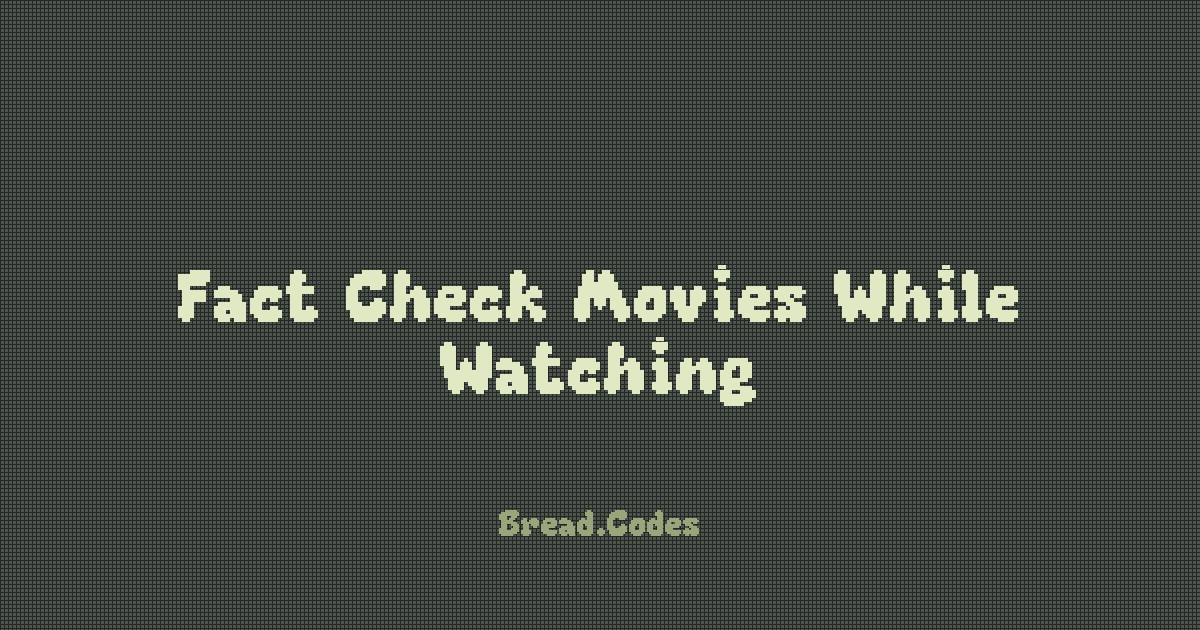
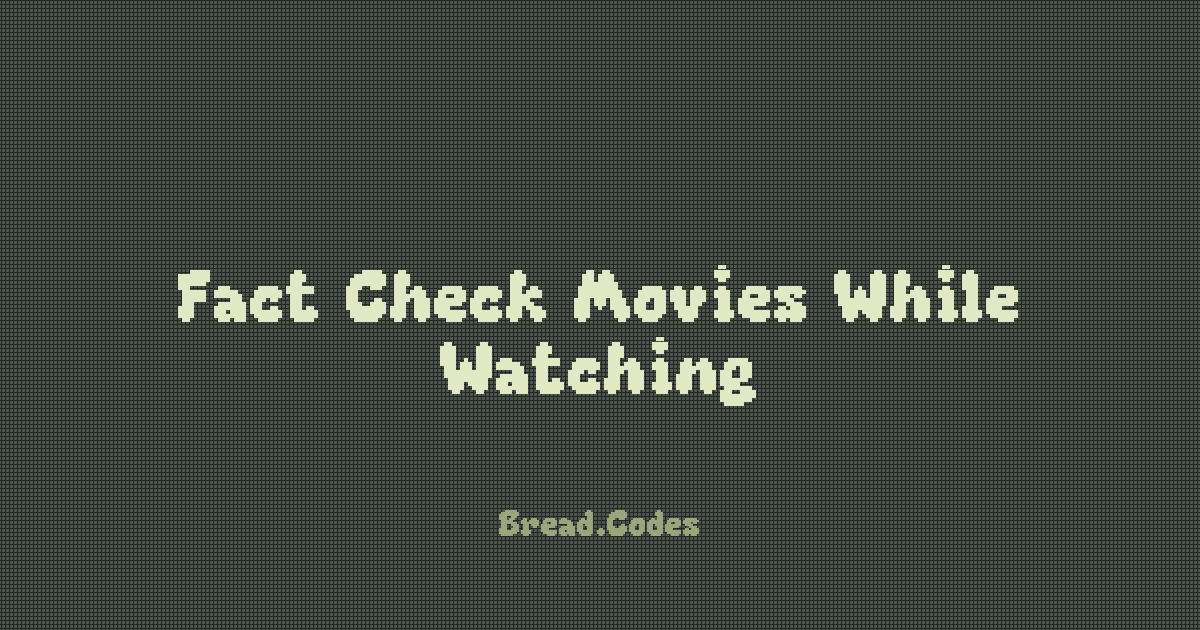
OG image settings

diff --git a/scripts/generate_og_images.py b/scripts/generate_og_images.py
@@ -75,12 +75,12 @@ def wrap_text(text: str, font: ImageFont.FreeTypeFont, max_width: int) -> list[s
 
 
 def create_gradient_background() -> Image.Image:
-    """Create a dot-matrix background with 2x2 pixel grid pattern."""
+    """Create a dot-matrix background with 4x4 pixel grid pattern."""
     img = Image.new('RGB', (OG_WIDTH, OG_HEIGHT))
     pixels = img.load()
 
-    # Dot-matrix grid size (2x2 pixels per "pixel")
-    dot_size = 2
+    # Dot-matrix grid size (4x4 pixels per "pixel")
+    dot_size = 4
 
     # Parse base color (using 'dark' as solid background)
     r_base = int(COLORS['dark'][1:3], 16)
@@ -96,7 +96,7 @@ def create_gradient_background() -> Image.Image:
     for y in range(OG_HEIGHT):
         for x in range(OG_WIDTH):
             # Create dot-matrix pattern: darkest color at grid boundaries
-            is_grid_boundary = (x % dot_size == 0) or (y % dot_size == 0)
+            is_grid_boundary = (x % dot_size == 1) or (y % dot_size == 0)
 
             if is_grid_boundary:
                 # Use darkest color for grid lines
